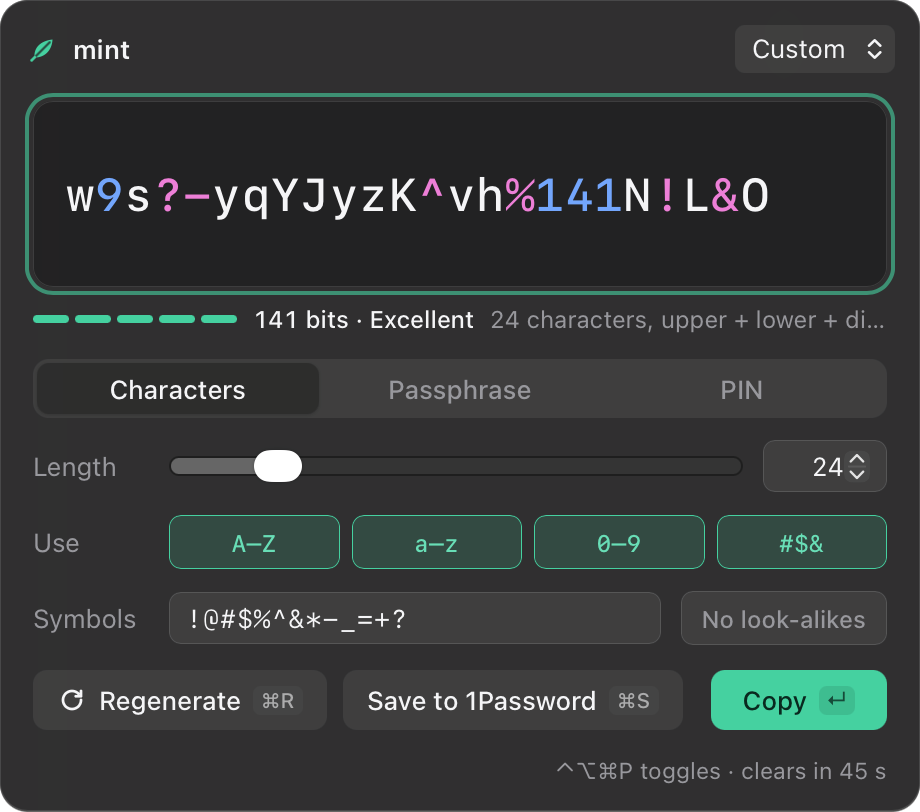
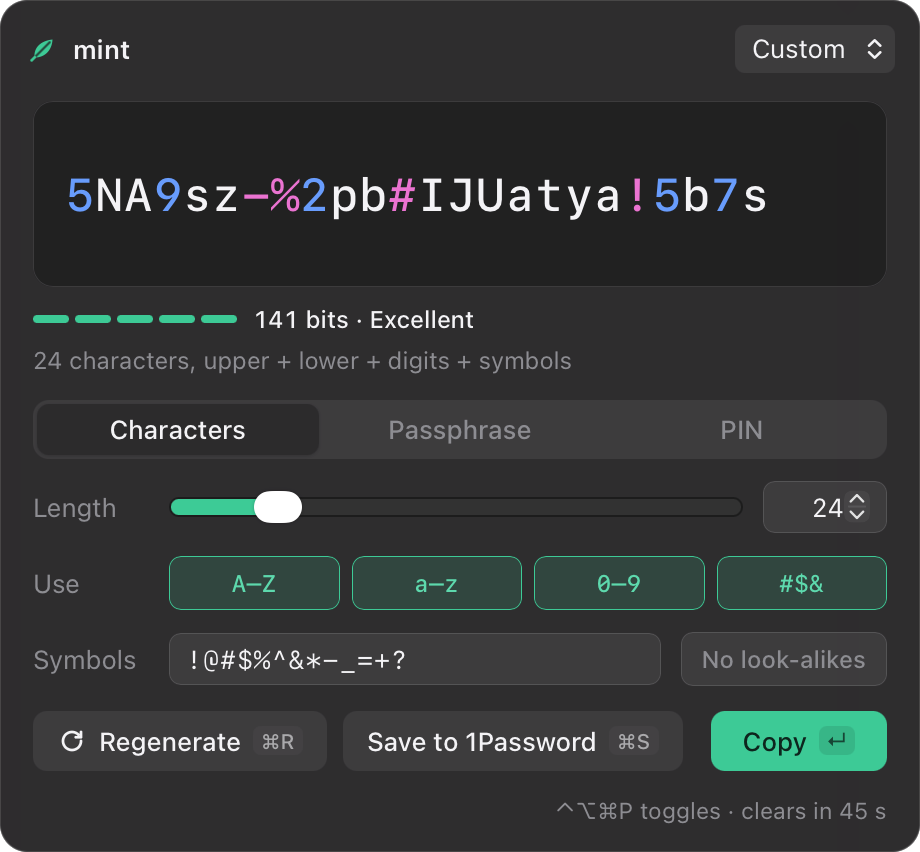
Screenshot mode lifts content protection; recapture screenshots

diff --git a/crates/mint-app/src/main.rs b/crates/mint-app/src/main.rs
@@ -662,6 +662,10 @@ fn main() {
             };
             if let Some(w) = main_window(&handle) {
                 let _ = w.set_theme(theme);
+                // Screenshot mode has to be capturable; release builds never are.
+                if demo().is_some() {
+                    let _ = w.set_content_protected(false);
+                }
             }
             build_tray(&handle)?;
             register_hotkey(&handle);
